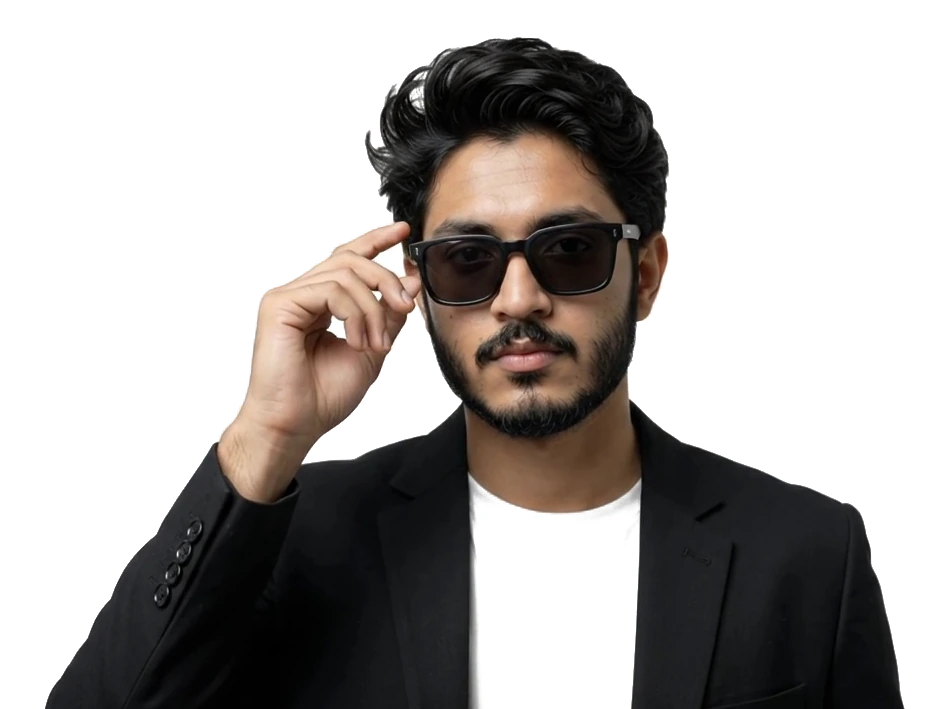
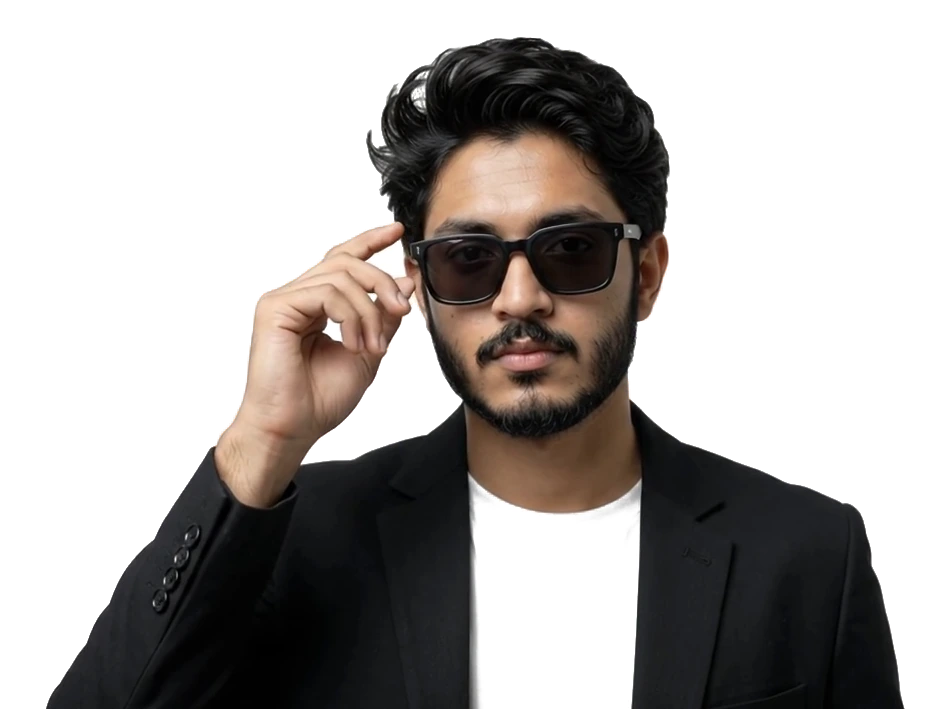
Hero: smooth 96-frame scrub, no vanishing still, no stutter after scrolling back
- Slice the sprite into per-frame ImageBitmaps so draws stop re-uploading a 26MP texture
- Decode the lens still before swapping it in (and in the preloader): it no longer goes blank on the first push
- Promote the camera layer only below 2.5x zoom, so it can't get stuck rastered at ~40x
- Hide the lens card with display:none

diff --git a/src/hooks/useHeroCamera.ts b/src/hooks/useHeroCamera.ts
@@ -53,6 +53,22 @@ const STACK_MIN_WIDTH = 320
  * smallest. It is what the eye is on, and much more would carry the raised
  * hand into the headline column.
  */
+/**
+ * The camera layer is promoted to its own GPU layer (will-change: transform)
+ * only while its zoom is below this.
+ *
+ * Promotion fixes the early push: unpromoted, the whole Hero, every glyph of
+ * the giant name included, re-rasterises at a new size each frame, and that
+ * dropped 0-4 frames per pass at about 1.3-1.6x. But a promoted layer keeps
+ * the raster scale it had when (re)promoted. Promoted for the whole push, it
+ * reappeared on the way back up at ~40x, was rasterised at that scale, and
+ * kept it: every scroll after that dropped 40+ frames per pass through the
+ * Hero until Chrome re-rasterised during idle. Measured: 40 drops with
+ * permanent promotion on that path, 4 without. Promoting only at low zoom
+ * keeps the first fix and caps the raster scale the second one can get stuck
+ * at.
+ */
+const PROMOTE_MAX_ZOOM = 2.5
 const NAME_DRIFT = 0.16
 const PORTRAIT_DRIFT = 0.035
 const BAND_DRIFT = 0.22
@@ -185,6 +201,34 @@ export function useHeroCamera(
     const titlesPerStrip = strips.length ? titles.length / strips.length : 0
 
     let canvas: HTMLCanvasElement | null = null
+
+    // The still may only replace the canvas once it is DECODED. It sits
+    // hidden until the push, and a browser does not decode a hidden image
+    // until it first has to paint it, so the first push after every reload
+    // swapped the canvas out for an image that was not ready: measured, the
+    // page froze for ~700ms right there with nothing drawn. That was the
+    // character vanishing at one point and only on the first scroll. Decode
+    // ahead of time, gate the swap on it, and keep the canvas on screen until
+    // then. The decode is re-requested on every approach, because the browser
+    // may discard a decoded image again while the Hero is off screen;
+    // decode() on an image that is still decoded resolves at once.
+    let stillReady = false
+    let decoding = false
+    const ensureStillDecoded = () => {
+      if (!still || stillReady || decoding) return
+      decoding = true
+      still
+        .decode()
+        .then(() => {
+          stillReady = true
+        })
+        .catch(() => {})
+        .finally(() => {
+          decoding = false
+        })
+    }
+    ensureStillDecoded()
+
     let raf = 0
     const frame = () => {
       const { poster, push, titles: titlePhase } = heroPhases(progress.current ?? 0)
@@ -214,6 +258,7 @@ export function useHeroCamera(
       } else {
         write(camera, 'camera', 'transform', 'none')
       }
+      write(camera, 'cameraLayer', 'will-change', zoom < PROMOTE_MAX_ZOOM ? 'transform' : 'auto')
       // Hard swaps, never fades: the still replaces the canvas the moment the
       // push starts (same pose, so the swap is invisible), and the whole
       // camera layer drops out once the lens covers the screen.
@@ -222,7 +267,12 @@ export function useHeroCamera(
       // `hidden`: visibility is the one hiding property a child can override,
       // and the still's own inline `visible` kept the zoomed lens on screen
       // underneath the opening bands.
-      write(still, 'still', 'visibility', push > 0 && !inside ? 'visible' : 'hidden')
+      // Far from the push, assume the browser may have discarded the decode;
+      // nearing it, make sure it is back before the swap needs it.
+      if (poster < 0.3) stillReady = false
+      else if (poster > 0.5) ensureStillDecoded()
+      const showStill = push > 0 && !inside && stillReady
+      write(still, 'still', 'visibility', showStill ? 'visible' : 'hidden')
       // The still REPLACES the frame canvas; it must never sit on top of it.
       // Both used to be visible at once under a multiply blend, which
       // multiplied the image by itself (every colour value squared: a 160
@@ -230,12 +280,19 @@ export function useHeroCamera(
       // zoom began. The canvas mounts once the sprite loads, so look it up
       // lazily.
       canvas ??= box.querySelector('canvas')
-      write(canvas, 'canvasVis', 'visibility', push > 0 ? 'hidden' : 'visible')
+      write(canvas, 'canvasVis', 'visibility', showStill || inside ? 'hidden' : 'visible')
       write(camera, 'cameraVis', 'visibility', inside ? 'hidden' : 'visible')
 
       const bands = bandsTrigger ? bandsTrigger.progress : 1
       const cardOn = inside && bands < 1
-      write(card, 'card', 'visibility', cardOn ? 'visible' : 'hidden')
+      // display, not visibility. A visibility-hidden card stays in rendering,
+      // and once its 6 strips and 24 title copies have been animated, Chrome
+      // keeps each as its own composited layer for a while. Measured: after
+      // scrolling back up through the card, every scrollTo Lenis made cost
+      // enough to drop 40-47 frames per pass through the Hero, even sitting at
+      // the top; with the card out of rendering, 1. display: none removes it,
+      // layers and all, whenever it is not on screen.
+      write(card, 'card', 'display', cardOn ? 'block' : 'none')
       if (cardOn) {
         titles.forEach((el, i) => {
           const rise = titleReveal(titlePhase, i % titlesPerStrip)
@@ -255,10 +312,11 @@ export function useHeroCamera(
       bandsTrigger?.kill()
       teardownLayout()
       camera.style.transform = ''
+      camera.style.willChange = ''
       camera.style.visibility = ''
       if (still) still.style.visibility = ''
       if (canvas) canvas.style.visibility = ''
-      if (card) card.style.visibility = ''
+      if (card) card.style.display = ''
     }
     // Deliberately only these two. Hero builds a new `refs` wrapper object on
     // every render, so listing it would tear this down and rebuild it on any

diff --git a/src/hooks/useHeroCutout.ts b/src/hooks/useHeroCutout.ts
@@ -6,7 +6,10 @@ import manifest from '../assets/hero-cutout.json'
 import spriteUrl from '../assets/hero-cutout.webp?url'
 
 export interface HeroCutoutData {
+  /** The whole sheet; drawn from only when per-frame bitmaps are unavailable. */
   image: HTMLImageElement
+  /** One decoded bitmap per frame, sliced once at load: see load(). */
+  frames: ImageBitmap[] | null
   frameCount: number
   columns: number
   rows: number
@@ -36,9 +39,39 @@ function load(): Promise<HeroCutoutData> {
   if (!cached) {
     cached = new Promise((resolve, reject) => {
       const img = new Image()
-      img.onload = () =>
+      img.onload = async () => {
+        // Slice the sheet into one ImageBitmap per frame, once, and keep them.
+        // Two failures this avoids, both measured:
+        //  - Drawn straight from the <img>, the browser may discard the
+        //    sheet's decoded pixels while the Hero is off screen and re-decode
+        //    all of it mid-scroll on the way back up.
+        //  - Drawn from ONE bitmap of the whole sheet, every frame needs the
+        //    entire sheet as a GPU texture. At 96 frames that is ~26
+        //    megapixels (~105 MB), more than the GPU image cache keeps, so it
+        //    was re-uploaded on every draw: 52 of 64 frames dropped. A frame
+        //    bitmap is ~1 MB, so even an evicted one re-uploads in well under
+        //    a millisecond.
+        // Bitmaps stay decoded while referenced. Falls back to drawing from
+        // the sheet where createImageBitmap is unavailable.
+        let frames: ImageBitmap[] | null = null
+        try {
+          frames = await Promise.all(
+            Array.from({ length: manifest.frameCount }, (_, i) =>
+              createImageBitmap(
+                img,
+                (i % manifest.columns) * manifest.frameWidth,
+                Math.floor(i / manifest.columns) * manifest.frameHeight,
+                manifest.frameWidth,
+                manifest.frameHeight,
+              ),
+            ),
+          )
+        } catch {
+          frames = null
+        }
         resolve({
           image: img,
+          frames,
           frameCount: manifest.frameCount,
           columns: manifest.columns,
           rows: manifest.rows,
@@ -46,6 +79,7 @@ function load(): Promise<HeroCutoutData> {
           frameHeight: manifest.frameHeight,
           bottomCutFraction: manifest.bottomCutFraction,
         })
+      }
       img.onerror = () => reject(new Error(`useHeroCutout: failed to load ${spriteUrl}`))
       img.src = spriteUrl
     })

diff --git a/src/components/HeroCutout.tsx b/src/components/HeroCutout.tsx
@@ -33,7 +33,7 @@ export function HeroCutout({ data, progress, still, className }: HeroCutoutProps
     const ctx = canvas.getContext('2d')
     if (!ctx) return
 
-    const { image, frameCount, columns, frameWidth, frameHeight } = data
+    const { image, frames, frameCount, columns, frameWidth, frameHeight } = data
     const aspect = frameWidth / frameHeight
 
     let displayWidth = 0
@@ -72,22 +72,17 @@ export function HeroCutout({ data, progress, still, className }: HeroCutoutProps
       const dx = (displayWidth - drawW) / 2
       const dy = (displayHeight - drawH) / 2
 
-      const col = frameIndex % columns
-      const row = Math.floor(frameIndex / columns)
-
       ctx.setTransform(dpr, 0, 0, dpr, 0, 0)
       ctx.clearRect(0, 0, displayWidth, displayHeight)
-      ctx.drawImage(
-        image,
-        col * frameWidth,
-        row * frameHeight,
-        frameWidth,
-        frameHeight,
-        dx,
-        dy,
-        drawW,
-        drawH,
-      )
+      // Per-frame bitmaps keep each draw's texture small; see useHeroCutout.
+      const frame = frames?.[frameIndex]
+      if (frame) {
+        ctx.drawImage(frame, dx, dy, drawW, drawH)
+      } else {
+        const col = frameIndex % columns
+        const row = Math.floor(frameIndex / columns)
+        ctx.drawImage(image, col * frameWidth, row * frameHeight, frameWidth, frameHeight, dx, dy, drawW, drawH)
+      }
     }
 
     const tick = () => {

diff --git a/src/components/sections/Hero.tsx b/src/components/sections/Hero.tsx
@@ -67,16 +67,11 @@ export function Hero() {
       className="relative min-h-svh overflow-hidden poster:h-svh"
       style={{ '--band-h': 'clamp(5rem, 15svh, 9rem)' } as CSSProperties}
     >
-      {/* Its own GPU layer in the poster layout (will-change), so the camera
-          push is scaled by the compositor instead of re-rasterising the whole
-          Hero, every glyph of the giant name included, at a new size each
-          frame. Measured over a scroll through the sequence: 0-4 dropped
-          frames per run without it, all early in the push, and 0 in every run
-          with it, at identical sharpness (the zoom is limited by the still's
-          own resolution, not by the layer). */}
+      {/* GPU promotion (will-change) for this layer is set per frame by
+          useHeroCamera, only while the zoom is modest: see PROMOTE_MAX_ZOOM. */}
       <div
         ref={cameraRef}
-        className="flex min-h-svh origin-top-left flex-col justify-center poster:absolute poster:inset-0 poster:block poster:min-h-0 poster:will-change-transform"
+        className="flex min-h-svh origin-top-left flex-col justify-center poster:absolute poster:inset-0 poster:block poster:min-h-0"
       >
         <div
           ref={backNameRef}

diff --git a/src/preloader/run.ts b/src/preloader/run.ts
@@ -1,3 +1,4 @@
+import lensStillUrl from '../assets/hero-lens-still.webp?url'
 import { loadHeroCutout } from '../hooks/useHeroCutout'
 import { COMPACT_QUERY } from '../hooks/useIsCompact'
 import { waitForGate } from './gate'
@@ -59,6 +60,12 @@ export function startPreloader(): void {
   // spend a phone's data on a multi-megabyte image it will never show.
   if (!window.matchMedia(COMPACT_QUERY).matches) {
     tasks.push(loadHeroCutout())
+    // The zoom's hi-res still, fetched and decoded before the reveal, so the
+    // first push after a reload never waits on it (useHeroCamera still gates
+    // the swap on its own decode, in case the browser discards this one).
+    const still = new Image()
+    still.src = lensStillUrl
+    tasks.push(still.decode())
   }
 
   revealed = waitForGate(tasks, {

diff --git a/src/components/HeroLensCard.tsx b/src/components/HeroLensCard.tsx
@@ -50,7 +50,7 @@ function Card() {
  */
 export function HeroLensCard({ cardRef }: { cardRef: RefObject<HTMLDivElement | null> }) {
   return createPortal(
-    <div ref={cardRef} aria-hidden="true" className="pointer-events-none invisible fixed inset-0 z-40">
+    <div ref={cardRef} aria-hidden="true" className="pointer-events-none fixed inset-0 z-40 hidden">
       {Array.from({ length: STRIPS }, (_, i) => (
         <div
           key={i}

diff --git a/CLAUDE.md b/CLAUDE.md
@@ -95,7 +95,7 @@ The drawn pointer is skipped under `(pointer: coarse)`, since imitating a mouse 
 | `src/three/backgroundSeparation.ts` | Bounded flood-fill separation, for footage with an ordinary (non-green) backdrop. Pure function of pixel data in, mask out. Not React/Three-specific despite living in `three/` |
 | `src/dev/bakeHeroCutout.ts` | Dev-only, committed (not throwaway): video frames → baked cutout sprite sheet. Read it before touching the Hero visual |
 | `src/dev/bake.html` | Run this in the dev server to re-bake after the source video changes; see its own instructions |
-| `src/hooks/useHeroCutout.ts` | Loads and decodes `hero-cutout.png` + `.json`, degrades to `unavailable` on any failure |
+| `src/hooks/useHeroCutout.ts` | Loads and decodes `hero-cutout.webp` + `.json`, slices per-frame bitmaps, degrades to `unavailable` on any failure |
 | `src/components/HeroCutout.tsx` | The canvas: crops the current frame out of the sprite sheet and draws it, `object-fit: contain` |
 
 **Motion is scroll-scrubbed by stepping to the nearest baked frame, never crossfading two.** Crossfading two independently-masked frames overlays two full poses at partial opacity mid-transition, which reads as a double-exposure ghost wherever the pose changed between frames, exactly the "effect" this design removed. Stepping is also what real scroll-scrubbed video does: decode and show the one frame nearest the scroll position.
@@ -122,7 +122,13 @@ The Hero is one pinned sequence, 250% of the viewport long. Spec: `docs/superpow
 | `src/components/HeroLensCard.tsx` | The ink card, portalled to `body` |
 | `src/assets/hero-lens-still.png` + `.json` | Last poster pose at source resolution, plus its lens centre |
 
-**The portrait is a true cut-out, composited with ordinary blending. Never bring back `mix-blend-mode: multiply`.** The frames and the still carry a real alpha channel (made offline by `src/dev/grade-to-white.py`), so the back name shows only around the subject. Multiply was the old way of hiding the frames' white background, and it caused the "face goes dark while zooming" bug twice over: it darkened the subject wherever the pale name sat behind it (by about 10%, warm-shifted, in letter shapes the push magnified across the face, with a hard diagonal edge where a stroke crossed the forehead), and once the still swapped in over a still-visible canvas, it multiplied the image by itself, squaring every colour value (a 160 skin tone came out near 100). Both were confirmed by toggling one layer at a time on screen, and `heroCutoutAssets.test.ts` now fails if multiply or a non-alpha asset returns. Without a blend mode there is no stacking-context constraint any more: the portrait drifts with a compositor-only `transform`, and the camera layer is `will-change: transform` in the poster layout. That promotion is measured, not assumed: over a scroll through the sequence at 1440x900, 0-4 dropped frames per run without it (all early in the push, where every glyph of the giant name re-rasterised at a new size each frame) and 0 in every run with it, at identical sharpness. The push aims at the lens's drifted position, not the measured one, since the drift is at its full extent when the push begins.
+**The portrait is a true cut-out, composited with ordinary blending. Never bring back `mix-blend-mode: multiply`.** The frames and the still carry a real alpha channel (made offline by `src/dev/grade-to-white.py`), so the back name shows only around the subject. Multiply was the old way of hiding the frames' white background, and it caused the "face goes dark while zooming" bug twice over: it darkened the subject wherever the pale name sat behind it (by about 10%, warm-shifted, in letter shapes the push magnified across the face, with a hard diagonal edge where a stroke crossed the forehead), and once the still swapped in over a still-visible canvas, it multiplied the image by itself, squaring every colour value (a 160 skin tone came out near 100). Both were confirmed by toggling one layer at a time on screen, and `heroCutoutAssets.test.ts` now fails if multiply or a non-alpha asset returns. Without a blend mode there is no stacking-context constraint any more: the portrait drifts with a compositor-only `transform`. **The camera layer is promoted (`will-change: transform`) only while its zoom is under `PROMOTE_MAX_ZOOM` (2.5), set per frame by `useHeroCamera`, never as a static class.** Unpromoted, the early push re-rasterises every glyph of the giant name each frame (0-4 drops per pass). But a promoted layer keeps the raster scale it was promoted at: promoted for the whole push, it came back on the way up at ~40x and kept that scale, so every pass through the Hero after scrolling back up dropped ~40 frames. Measured with promotion always on vs. never: 40 vs. 4 drops on that path. The push aims at the lens's drifted position, not the measured one, since the drift is at its full extent when the push begins.
+
+**Smoothness, four more measured fixes (1440x900 production build):**
+- **96 frames, sliced into one `ImageBitmap` each** (`useHeroCutout`). Drawing crops out of one 26MP sheet made Chrome re-upload the whole sheet as a texture whenever its GPU cache evicted it: 52 of 64 dropped frames in one pass. Per-frame bitmaps keep each draw's texture small: 0 drops in 505 frames forward.
+- **The still is `decode()`d before it can be shown** (`ensureStillDecoded` in `useHeroCamera`, plus a decode task in the preloader). Swapping in an undecoded `<img>` showed nothing for ~700ms on the first push after each reload: the "character vanishes once, then comes back" bug. Now ~13ms.
+- **The lens card is hidden with `display: none`, not `visibility`**, so its layers do not stay composited while the page is in the poster.
+- Repeated scrolls to the bottom and back measured 0-2 drops per pass. The very first pass after a cold reload can drop more while the rest of the page warms up.
 
 **The push zoom is capped relative to the cover zoom, not at a fixed number.** `pushZoom` goes up to 1.15 times the zoom at which the lens covers the viewport, so the cut to ink lands at the same moment for every window size. A fixed cap was tried in the prototype: 40x never covered the lens at all, and 150x overshot and spent the end of the push on solid black.
 
